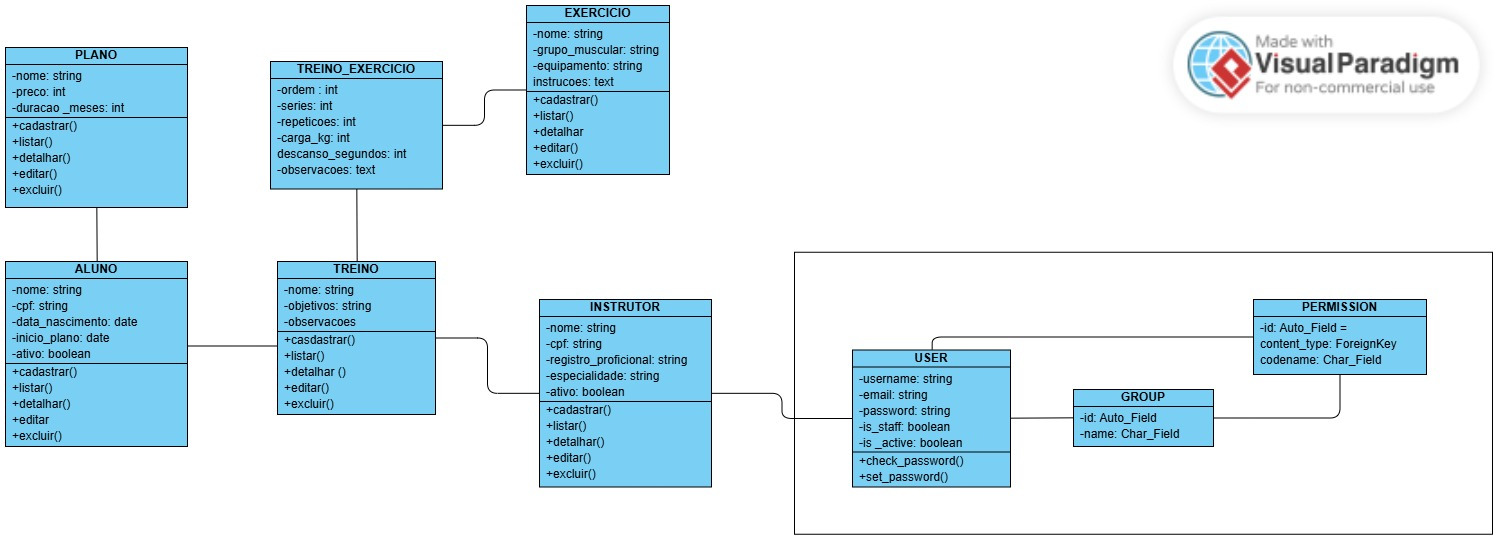
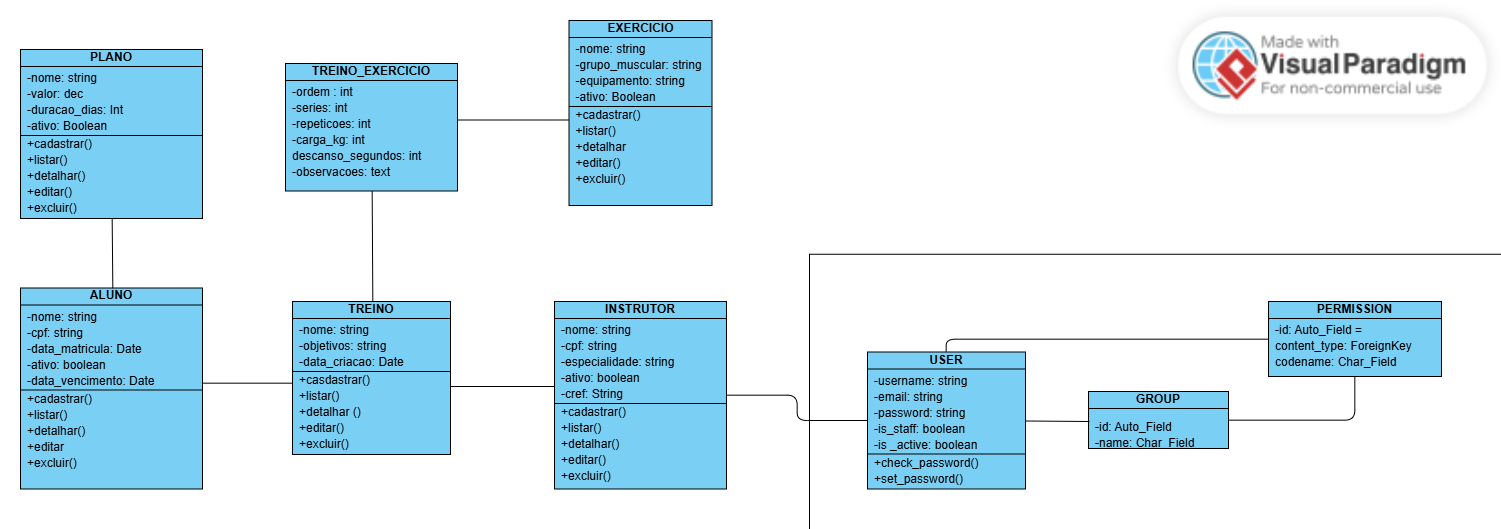
deixando moldels coerentes com o diagrama

diff --git a/alunos/models.py b/alunos/models.py
@@ -8,9 +8,6 @@ from planos.models import Plano
 class Aluno(models.Model):
     nome = models.CharField(max_length=150)
     cpf = models.CharField(max_length=14, unique=True)
-    email = models.EmailField(unique=True)
-    telefone = models.CharField(max_length=20)
-    data_nascimento = models.DateField()
 
     data_matricula = models.DateField(default=timezone.localdate)
     data_vencimento = models.DateField(blank=True, null=True)
@@ -22,15 +19,6 @@ class Aluno(models.Model):
         on_delete=models.PROTECT,
         related_name="alunos"
     )
-
-    def save(self, *args, **kwargs):
-        if self.plano and self.data_matricula:
-            self.data_vencimento = (
-                self.data_matricula
-                + timedelta(days=self.plano.duracao_dias)
-            )
-
-        super().save(*args, **kwargs)
 
     def __str__(self):
         return self.nome

diff --git a/funcionarios/models.py b/funcionarios/models.py
@@ -3,18 +3,19 @@ from django.db import models
 
 class Instrutor(models.Model):
     nome = models.CharField(max_length=150)
-    cpf = models.CharField(max_length=14, unique=True)
-    email = models.EmailField(unique=True)
-    telefone = models.CharField(max_length=20)
-
-    especialidade = models.CharField(max_length=100)
-
+    cpf = models.CharField(
+        max_length=14,
+        unique=True
+    )
+    especialidade = models.CharField(
+        max_length=100
+    )
     cref = models.CharField(
         max_length=30,
         unique=True
     )
-
-    ativo = models.BooleanField(default=True)
-
+    ativo = models.BooleanField(
+        default=True
+    )
     def __str__(self):
         return self.nome

diff --git a/exercicios/models.py b/exercicios/models.py
@@ -3,23 +3,11 @@ from django.db import models
 
 class Exercicio(models.Model):
     nome = models.CharField(max_length=100)
-
-    descricao = models.TextField(
-        blank=True
-    )
-
-    grupo_muscular = models.CharField(
-        max_length=100
-    )
-
-    equipamento = models.CharField(
-        max_length=100,
-        blank=True
-    )
-
-    ativo = models.BooleanField(
-        default=True
-    )
+    grupo_muscular = models.CharField(max_length=100)
+    equipamento = models.CharField(max_length=100, blank=True)
+    ativo = models.BooleanField(default=True)
 
     def __str__(self):
         return self.nome
+
+    
